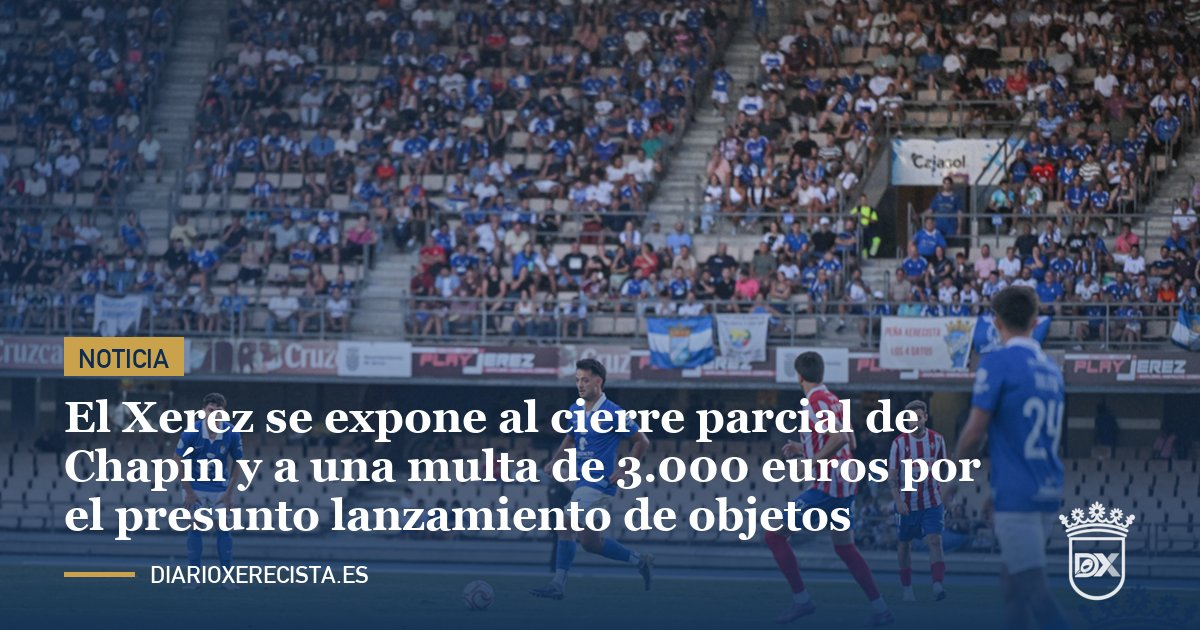
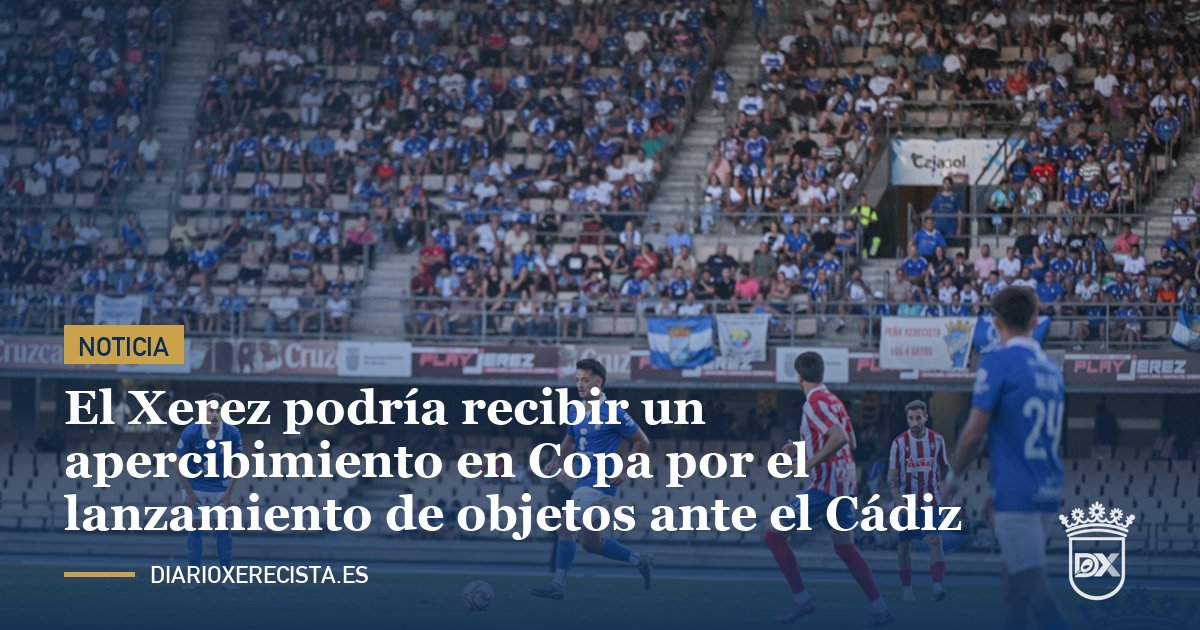
art118: rectificación (Copa y liga son competiciones distintas; no habría reincidencia)

Changed region(s): [[0.0308, 0.5127, 0.8325, 0.8746]]

diff --git a/noticias/articulos/2026-10/el-xerez-abocado-al-cierre-parcial-de-chapin-y-a-una-multa-de-3000-euros-por-el-lanzamiento-de-objetos/index.html b/noticias/articulos/2026-10/el-xerez-abocado-al-cierre-parcial-de-chapin-y-a-una-multa-de-3000-euros-por-el-lanzamiento-de-objetos/index.html
@@ -3,8 +3,8 @@
 <head>
 <meta charset="UTF-8">
 <meta name="viewport" content="width=device-width, initial-scale=1.0">
-<title>El Xerez se expone al cierre parcial de Chapín y a una multa de 3.000 euros por el presunto lanzamiento de objetos | Diario Xerecista</title>
-<meta name="description" content="El club podría ser sancionado por una presunta reincidencia en el lanzamiento de objetos al terreno de juego, después de lo ocurrido en el derbi de Copa ante el Cádiz CF.">
+<title>El Xerez podría recibir un apercibimiento en Copa por el lanzamiento de objetos ante el Cádiz | Diario Xerecista</title>
+<meta name="description" content="Lo ocurrido en el derbi de Copa ante el Cádiz CF no supondría reincidencia, ya que la Copa del Rey y la liga son competiciones distintas y el apercibimiento que el club recibió ante el Ciudad de Lucena corresponde a la liga.">
 <meta name="robots" content="index, follow, max-snippet:-1, max-image-preview:large">
 <link rel="canonical" href="https://www.diarioxerecista.es/noticias/articulos/2026-10/el-xerez-abocado-al-cierre-parcial-de-chapin-y-a-una-multa-de-3000-euros-por-el-lanzamiento-de-objetos/">
 <link rel="alternate" hreflang="es" href="https://www.diarioxerecista.es/noticias/articulos/2026-10/el-xerez-abocado-al-cierre-parcial-de-chapin-y-a-una-multa-de-3000-euros-por-el-lanzamiento-de-objetos/">
@@ -13,8 +13,8 @@
 
 <meta property="og:type" content="article">
 <meta property="og:site_name" content="Diario Xerecista">
-<meta property="og:title" content="El Xerez se expone al cierre parcial de Chapín y a una multa de 3.000 euros por el presunto lanzamiento de objetos">
-<meta property="og:description" content="El club podría ser sancionado por una presunta reincidencia en el lanzamiento de objetos al terreno de juego, después de lo ocurrido en el derbi de Copa ante el Cádiz CF.">
+<meta property="og:title" content="El Xerez podría recibir un apercibimiento en Copa por el lanzamiento de objetos ante el Cádiz">
+<meta property="og:description" content="Lo ocurrido en el derbi de Copa ante el Cádiz CF no supondría reincidencia, ya que la Copa del Rey y la liga son competiciones distintas y el apercibimiento que el club recibió ante el Ciudad de Lucena corresponde a la liga.">
 <meta property="og:url" content="https://www.diarioxerecista.es/noticias/articulos/2026-10/el-xerez-abocado-al-cierre-parcial-de-chapin-y-a-una-multa-de-3000-euros-por-el-lanzamiento-de-objetos/">
 <meta property="og:image" content="https://www.diarioxerecista.es/fotos/redes/art118-es.jpg">
 <meta property="og:image:width" content="1200">
@@ -22,8 +22,8 @@
 <meta property="og:locale" content="es_ES">
 
 <meta name="twitter:card" content="summary_large_image">
-<meta name="twitter:title" content="El Xerez se expone al cierre parcial de Chapín y a una multa de 3.000 euros por el presunto lanzamiento de objetos">
-<meta name="twitter:description" content="El club podría ser sancionado por una presunta reincidencia en el lanzamiento de objetos al terreno de juego, después de lo ocurrido en el derbi de Copa ante el Cádiz CF.">
+<meta name="twitter:title" content="El Xerez podría recibir un apercibimiento en Copa por el lanzamiento de objetos ante el Cádiz">
+<meta name="twitter:description" content="Lo ocurrido en el derbi de Copa ante el Cádiz CF no supondría reincidencia, ya que la Copa del Rey y la liga son competiciones distintas y el apercibimiento que el club recibió ante el Ciudad de Lucena corresponde a la liga.">
 <meta name="twitter:image" content="https://www.diarioxerecista.es/fotos/redes/art118-es.jpg">
 
 <link rel="preconnect" href="https://fonts.googleapis.com">
@@ -35,13 +35,13 @@
 {
   "@context": "https://schema.org",
   "@type": "NewsArticle",
-  "headline": "El Xerez se expone al cierre parcial de Chapín y a una multa de 3.000 euros por el presunto lanzamiento de objetos",
-  "description": "El club podría ser sancionado por una presunta reincidencia en el lanzamiento de objetos al terreno de juego, después de lo ocurrido en el derbi de Copa ante el Cádiz CF.",
+  "headline": "El Xerez podría recibir un apercibimiento en Copa por el lanzamiento de objetos ante el Cádiz",
+  "description": "Lo ocurrido en el derbi de Copa ante el Cádiz CF no supondría reincidencia, ya que la Copa del Rey y la liga son competiciones distintas y el apercibimiento que el club recibió ante el Ciudad de Lucena corresponde a la liga.",
   "image": [
     "https://www.diarioxerecista.es/fotos/publicadas/xerez-donbenito-j3-chapin-grada.jpg"
   ],
   "datePublished": "2026-10-30",
-  "dateModified": "2026-10-30",
+  "dateModified": "2026-10-31",
   "inLanguage": "es",
   "author": {
     "@type": "Organization",
@@ -75,28 +75,26 @@
 
   <main class="n-article">
     <span class="eyebrow">Xerez CD · Disciplina</span>
-    <h1>El Xerez se expone al cierre parcial de Chapín y a una multa de 3.000 euros por el presunto lanzamiento de objetos</h1>
+    <h1>El Xerez podría recibir un apercibimiento en Copa por el lanzamiento de objetos ante el Cádiz</h1>
 
     <div class="n-photo">
       <img src="../../../../fotos/publicadas/xerez-donbenito-j3-chapin-grada.jpg" alt="Aficionados del Xerez CD en la grada de Chapín" loading="lazy">
       <span class="n-credit">Foto: Diario Xerecista</span>
     </div>
 
-    <p class="lead">El club podría ser sancionado por una presunta reincidencia en el lanzamiento de objetos al terreno de juego, después de lo ocurrido en el derbi de Copa ante el Cádiz CF.</p>
+    <p class="lead">Lo ocurrido en el derbi de Copa ante el Cádiz CF no supondría reincidencia, ya que la Copa del Rey y la liga son competiciones distintas y el apercibimiento que el club recibió ante el Ciudad de Lucena corresponde a la liga.</p>
 
-    <p>El Xerez CD podría ser sancionado con el cierre parcial de su estadio y una multa de 3.000 euros por presunta reincidencia en el lanzamiento de objetos.</p>
+    <p><strong>Rectificación:</strong> en una versión anterior de esta noticia se informó de que el Xerez CD se exponía al cierre parcial de Chapín y a una multa de 3.000 euros por reincidencia en el lanzamiento de objetos. No es así. La Copa del Rey y la liga son competiciones diferentes, por lo que lo sucedido ante el Cádiz no se computaría como reincidencia respecto al apercibimiento recibido en liga.</p>
 
-    <p>La posible sanción llegaría tras el derbi de la primera eliminatoria de la Copa del Rey ante el Cádiz CF, jugado el jueves en Chapín (1-3). Según el acta arbitral, en el minuto 60, después del 1-2 de García Pascual, el árbitro del partido, Sánchez Villalobos, activó la fase 1 del protocolo por lanzamiento de objetos, al lanzarse botellas de agua y refrescos al terreno de juego desde un sector del estadio donde se ubicaban aficionados del club local, sin que ninguno de estos objetos llegara a impactar sobre persona alguna. Se advirtió al público por megafonía de que, si se repetía, el encuentro se suspendería temporalmente. El partido estuvo detenido dos minutos y 30 segundos y, tras ello, continuó sin ninguna otra incidencia, según recoge el acta.</p>
+    <p>Según el acta arbitral, en el minuto 60 del derbi de la primera eliminatoria de la Copa del Rey (1-3), después del 1-2 de García Pascual, el árbitro del partido, Sánchez Villalobos, activó la fase 1 del protocolo por lanzamiento de objetos. Desde un sector del estadio donde se ubicaban aficionados del club local se lanzaron botellas de agua y refrescos al terreno de juego, sin que ninguno de estos objetos llegara a impactar sobre persona alguna. Se advirtió al público por megafonía de que, si se repetía, el encuentro se suspendería temporalmente. El partido estuvo detenido dos minutos y 30 segundos y, tras ello, continuó sin ninguna otra incidencia, según recoge el acta.</p>
 
-    <h2>Reincidencia</h2>
+    <h2>Dos competiciones distintas</h2>
 
-    <p>No sería la primera vez esta temporada. En el partido de liga ante el Ciudad de Lucena, el 18 de octubre en Chapín, el club ya recibió un apercibimiento de cierre parcial y una multa de 600 euros, y ante el Cádiz se habrían repetido presuntamente los hechos. Esa posible reincidencia es la que podría agravar el castigo, que pasaría de la multa al cierre parcial del recinto.</p>
-
-    <p>Queda por conocer qué zona del estadio se verá afectada, en caso de que así sea, y en qué partido se cumpliría la sanción. El próximo encuentro del Xerez en casa, ante el Antoniano, no tiene campo aún, ya que Chapín está en plena resiembra, con lo cual habrá que estar a la expectativa en caso del cierre parcial.</p>
+    <p>En el partido de liga ante el Ciudad de Lucena, el 18 de octubre en Chapín, el club recibió un apercibimiento de cierre parcial y una multa de 600 euros. Al tratarse de competiciones diferentes, lo que podría ocurrir ahora es que el Comité de Competición impusiera otro apercibimiento en la Copa, independiente del que ya existe en la liga.</p>
 
     <div class="n-meta-row">
-      <span class="byline">Redacción — 30 de octubre de 2026</span>
-      <a href="https://x.com/intent/tweet?text=El%20Xerez%20se%20expone%20al%20cierre%20parcial%20de%20Chap%C3%ADn%20y%20a%20una%20multa%20de%203.000%20euros%20por%20el%20presunto%20lanzamiento%20de%20objetos%0A%0Ahttps%3A%2F%2Fwww.diarioxerecista.es%2Fnoticias%2Farticulos%2F2026-10%2Fel-xerez-abocado-al-cierre-parcial-de-chapin-y-a-una-multa-de-3000-euros-por-el-lanzamiento-de-objetos%2F%3Fv%3D2%0A%0A%23XerezCD" target="_blank" rel="noopener" class="share-x-btn">Compartir en 𝕏</a>
+      <span class="byline">Redacción — 30 de octubre de 2026 (actualizada el 31 de octubre)</span>
+      <a href="https://x.com/intent/tweet?text=El%20Xerez%20podr%C3%ADa%20recibir%20un%20apercibimiento%20en%20Copa%20por%20el%20lanzamiento%20de%20objetos%20ante%20el%20C%C3%A1diz%0A%0Ahttps%3A%2F%2Fwww.diarioxerecista.es%2Fnoticias%2Farticulos%2F2026-10%2Fel-xerez-abocado-al-cierre-parcial-de-chapin-y-a-una-multa-de-3000-euros-por-el-lanzamiento-de-objetos%2F%3Fv%3D3%0A%0A%23XerezCD" target="_blank" rel="noopener" class="share-x-btn">Compartir en 𝕏</a>
     </div>
 
     <a class="back-link" href="../../../../en/noticias/articulos/2026-10/xerez-facing-partial-closure-of-chapin-and-a-3000-euro-fine-for-throwing-objects/" style="display:block;margin-bottom:10px;">🇬🇧 Read in English</a>

diff --git a/en/noticias/articulos/2026-10/xerez-facing-partial-closure-of-chapin-and-a-3000-euro-fine-for-throwing-objects/index.html b/en/noticias/articulos/2026-10/xerez-facing-partial-closure-of-chapin-and-a-3000-euro-fine-for-throwing-objects/index.html
@@ -3,8 +3,8 @@
 <head>
 <meta charset="UTF-8">
 <meta name="viewport" content="width=device-width, initial-scale=1.0">
-<title>Xerez could face partial closure of Chapín and a 3,000-euro fine over objects allegedly thrown | Diario Xerecista</title>
-<meta name="description" content="The club could be sanctioned for an alleged repeat offence of objects thrown onto the pitch, following what happened in the Copa derby against Cádiz CF.">
+<title>Xerez could receive a Copa warning over objects thrown against Cádiz | Diario Xerecista</title>
+<meta name="description" content="What happened in the Copa derby against Cádiz CF would not count as a repeat offence, since the Copa del Rey and the league are different competitions and the warning the club received against Ciudad de Lucena belongs to the league.">
 <meta name="robots" content="index, follow, max-snippet:-1, max-image-preview:large">
 <link rel="canonical" href="https://www.diarioxerecista.es/en/noticias/articulos/2026-10/xerez-facing-partial-closure-of-chapin-and-a-3000-euro-fine-for-throwing-objects/">
 <link rel="alternate" hreflang="es" href="https://www.diarioxerecista.es/noticias/articulos/2026-10/el-xerez-abocado-al-cierre-parcial-de-chapin-y-a-una-multa-de-3000-euros-por-el-lanzamiento-de-objetos/">
@@ -13,8 +13,8 @@
 
 <meta property="og:type" content="article">
 <meta property="og:site_name" content="Diario Xerecista">
-<meta property="og:title" content="Xerez could face partial closure of Chapín and a 3,000-euro fine over objects allegedly thrown">
-<meta property="og:description" content="The club could be sanctioned for an alleged repeat offence of objects thrown onto the pitch, following what happened in the Copa derby against Cádiz CF.">
+<meta property="og:title" content="Xerez could receive a Copa warning over objects thrown against Cádiz">
+<meta property="og:description" content="What happened in the Copa derby against Cádiz CF would not count as a repeat offence, since the Copa del Rey and the league are different competitions and the warning the club received against Ciudad de Lucena belongs to the league.">
 <meta property="og:url" content="https://www.diarioxerecista.es/en/noticias/articulos/2026-10/xerez-facing-partial-closure-of-chapin-and-a-3000-euro-fine-for-throwing-objects/">
 <meta property="og:image" content="https://www.diarioxerecista.es/fotos/redes/art118-en.jpg">
 <meta property="og:image:width" content="1200">
@@ -22,8 +22,8 @@
 <meta property="og:locale" content="en_GB">
 
 <meta name="twitter:card" content="summary_large_image">
-<meta name="twitter:title" content="Xerez could face partial closure of Chapín and a 3,000-euro fine over objects allegedly thrown">
-<meta name="twitter:description" content="The club could be sanctioned for an alleged repeat offence of objects thrown onto the pitch, following what happened in the Copa derby against Cádiz CF.">
+<meta name="twitter:title" content="Xerez could receive a Copa warning over objects thrown against Cádiz">
+<meta name="twitter:description" content="What happened in the Copa derby against Cádiz CF would not count as a repeat offence, since the Copa del Rey and the league are different competitions and the warning the club received against Ciudad de Lucena belongs to the league.">
 <meta name="twitter:image" content="https://www.diarioxerecista.es/fotos/redes/art118-en.jpg">
 
 <link rel="preconnect" href="https://fonts.googleapis.com">
@@ -35,13 +35,13 @@
 {
   "@context": "https://schema.org",
   "@type": "NewsArticle",
-  "headline": "Xerez could face partial closure of Chapín and a 3,000-euro fine over objects allegedly thrown",
-  "description": "The club could be sanctioned for an alleged repeat offence of objects thrown onto the pitch, following what happened in the Copa derby against Cádiz CF.",
+  "headline": "Xerez could receive a Copa warning over objects thrown against Cádiz",
+  "description": "What happened in the Copa derby against Cádiz CF would not count as a repeat offence, since the Copa del Rey and the league are different competitions and the warning the club received against Ciudad de Lucena belongs to the league.",
   "image": [
     "https://www.diarioxerecista.es/fotos/publicadas/xerez-donbenito-j3-chapin-grada.jpg"
   ],
   "datePublished": "2026-10-30",
-  "dateModified": "2026-10-30",
+  "dateModified": "2026-10-31",
   "inLanguage": "en",
   "author": {
     "@type": "Organization",
@@ -75,28 +75,26 @@
 
   <main class="n-article">
     <span class="eyebrow">Xerez CD · Discipline</span>
-    <h1>Xerez could face partial closure of Chapín and a 3,000-euro fine over objects allegedly thrown</h1>
+    <h1>Xerez could receive a Copa warning over objects thrown against Cádiz</h1>
 
     <div class="n-photo">
       <img src="../../../../../fotos/publicadas/xerez-donbenito-j3-chapin-grada.jpg" alt="Xerez CD supporters in the stands at Chapín" loading="lazy">
       <span class="n-credit">Photo: Diario Xerecista</span>
     </div>
 
-    <p class="lead">The club could be sanctioned for an alleged repeat offence of objects thrown onto the pitch, following what happened in the Copa derby against Cádiz CF.</p>
+    <p class="lead">What happened in the Copa derby against Cádiz CF would not count as a repeat offence, since the Copa del Rey and the league are different competitions and the warning the club received against Ciudad de Lucena belongs to the league.</p>
 
-    <p>Xerez CD could be sanctioned with the partial closure of their stadium and a 3,000-euro fine for an alleged repeat offence of throwing objects.</p>
+    <p><strong>Correction:</strong> an earlier version of this article reported that Xerez CD faced the partial closure of Chapín and a 3,000-euro fine as repeat offenders for throwing objects. That is not the case. The Copa del Rey and the league are different competitions, so what happened against Cádiz would not count as a repeat offence in relation to the warning received in the league.</p>
 
-    <p>The possible sanction would follow the Copa del Rey first-round derby against Cádiz CF, played on Thursday at Chapín (1-3). According to the referee's report, in the 60th minute, after García Pascual made it 1-2, the match referee, Sánchez Villalobos, activated phase 1 of the protocol for thrown objects, after bottles of water and soft drinks were thrown onto the pitch from a section of the stadium occupied by home supporters, without any of them hitting anyone. The crowd was warned over the public address system that, if it happened again, the match would be temporarily suspended. The game was stopped for two minutes and 30 seconds and then continued without any further incident, according to the report.</p>
+    <p>According to the referee's report, in the 60th minute of the Copa del Rey first-round derby (1-3), after García Pascual made it 1-2, the match referee, Sánchez Villalobos, activated phase 1 of the protocol for thrown objects. Bottles of water and soft drinks were thrown onto the pitch from a section of the stadium occupied by home supporters, without any of them hitting anyone. The crowd was warned over the public address system that, if it happened again, the match would be temporarily suspended. The game was stopped for two minutes and 30 seconds and then continued without any further incident, according to the report.</p>
 
-    <h2>Repeat offence</h2>
+    <h2>Two different competitions</h2>
 
-    <p>It would not be the first time this season. In the league match against Ciudad de Lucena, on 18 October at Chapín, the club had already received a warning of partial closure and a 600-euro fine, and against Cádiz the incidents allegedly happened again. That possible repeat offence is what could make the punishment harsher, going from a fine to the partial closure of the ground.</p>
-
-    <p>It remains to be seen which area of the stadium would be affected, if that is the case, and in which match the sanction would be served. Xerez's next home game, against Antoniano, does not yet have a venue, as Chapín is being reseeded, so we will have to wait and see in the event of a partial closure.</p>
+    <p>In the league match against Ciudad de Lucena, on 18 October at Chapín, the club received a warning of partial closure and a 600-euro fine. As they are different competitions, what could happen now is that the Competition Committee issues another warning in the Copa, separate from the one already in place in the league.</p>
 
     <div class="n-meta-row">
-      <span class="byline">Newsroom — 30 October 2026</span>
-      <a href="https://x.com/intent/tweet?text=Xerez%20could%20face%20partial%20closure%20of%20Chap%C3%ADn%20and%20a%203%2C000-euro%20fine%20over%20objects%20allegedly%20thrown%0A%0Ahttps%3A%2F%2Fwww.diarioxerecista.es%2Fen%2Fnoticias%2Farticulos%2F2026-10%2Fxerez-facing-partial-closure-of-chapin-and-a-3000-euro-fine-for-throwing-objects%2F%3Fv%3D2%0A%0A%23XerezCD" target="_blank" rel="noopener" class="share-x-btn">Share on 𝕏</a>
+      <span class="byline">Newsroom — 30 October 2026 (updated 31 October)</span>
+      <a href="https://x.com/intent/tweet?text=Xerez%20could%20receive%20a%20Copa%20warning%20over%20objects%20thrown%20against%20C%C3%A1diz%0A%0Ahttps%3A%2F%2Fwww.diarioxerecista.es%2Fen%2Fnoticias%2Farticulos%2F2026-10%2Fxerez-facing-partial-closure-of-chapin-and-a-3000-euro-fine-for-throwing-objects%2F%3Fv%3D3%0A%0A%23XerezCD" target="_blank" rel="noopener" class="share-x-btn">Share on 𝕏</a>
     </div>
 
     <a class="back-link" href="../../../../../noticias/articulos/2026-10/el-xerez-abocado-al-cierre-parcial-de-chapin-y-a-una-multa-de-3000-euros-por-el-lanzamiento-de-objetos/" style="display:block;margin-bottom:10px;">🇪🇸 Leer en español</a>
